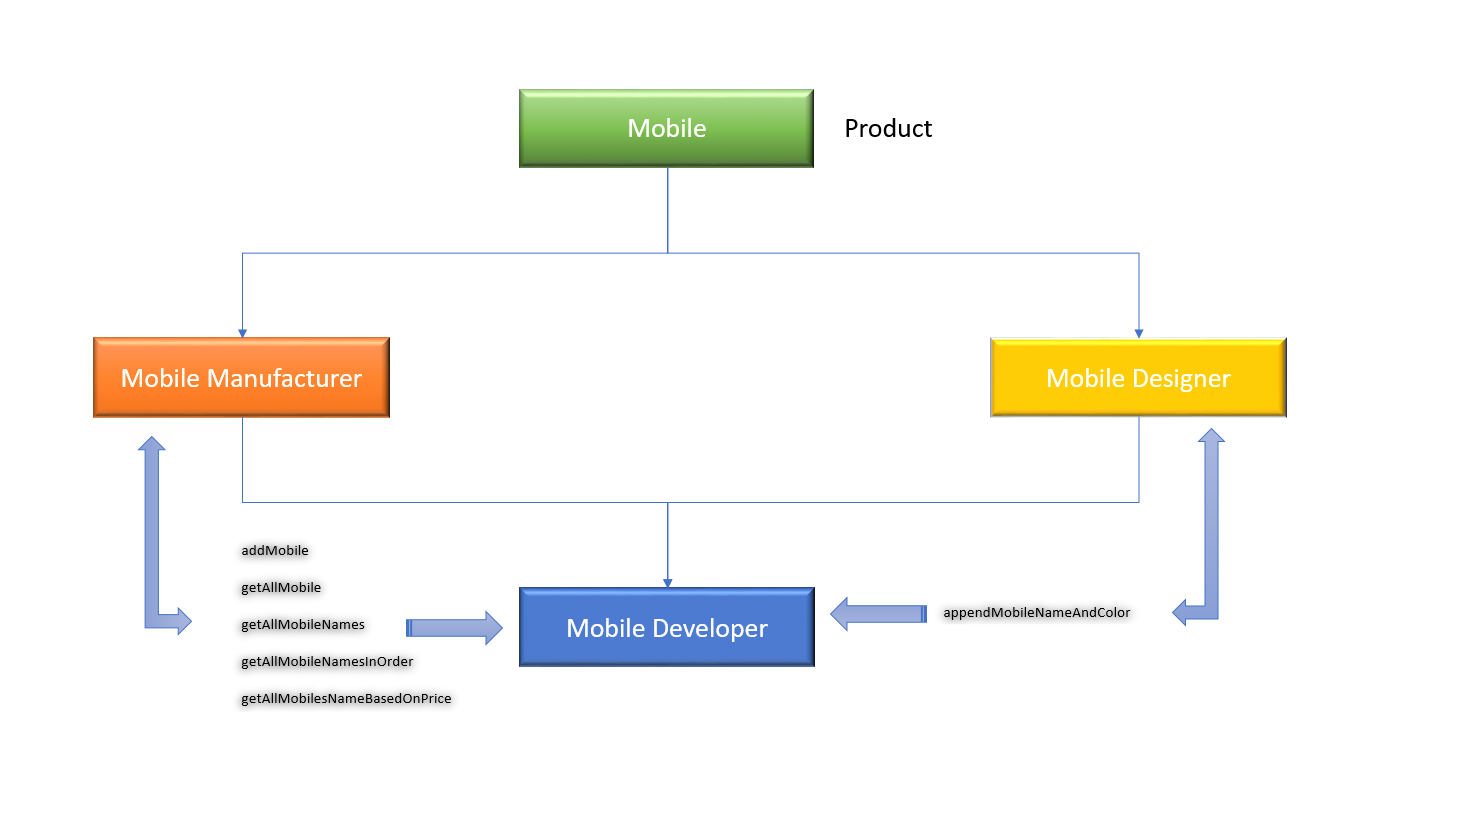
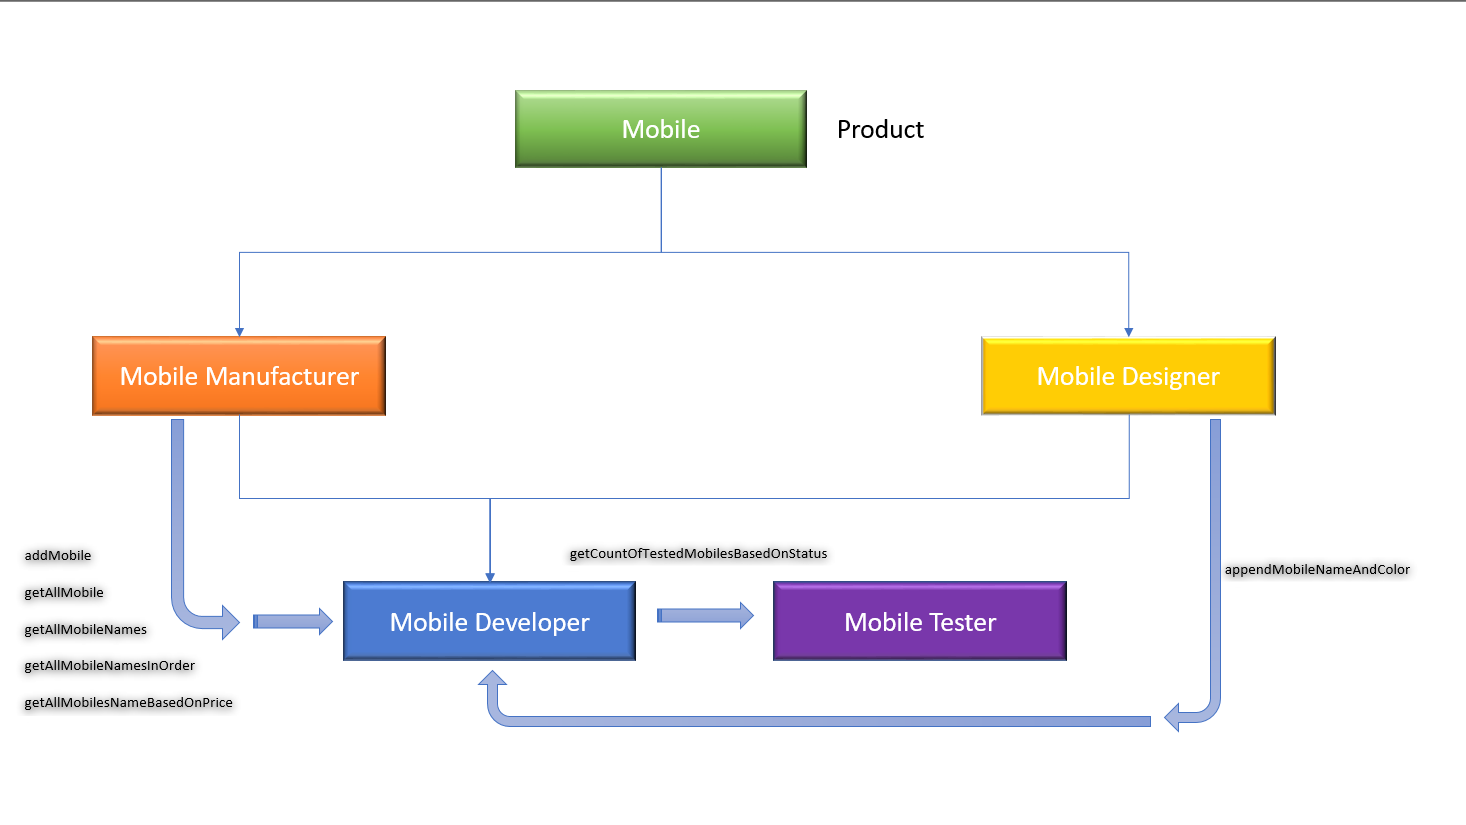
Added Method Referencing with Java8

diff --git a/src/main/java/com/yash/mobile/service/MobileDeveloper.java b/src/main/java/com/yash/mobile/service/MobileDeveloper.java
@@ -19,7 +19,20 @@ import com.yash.mobile.model.Mobile;
 public class MobileDeveloper implements MobileManufacturer {
 
 	List<Mobile> mobileList= new ArrayList<>();
-
+	
+	/**
+	 * Mobile Developer EmptyConstructor
+	 */
+	public MobileDeveloper() {
+		//Empty Constructor
+	}
+	
+	/**
+	 * Mobile Developer Constructor
+	 */
+	public MobileDeveloper(String message) {
+		System.out.println("Mobile Development is in Progress");
+	}
 
 	@Override
 	public void addMobile(Mobile mobile) {
@@ -44,18 +57,17 @@ public class MobileDeveloper implements MobileManufacturer {
 	 * 
 	 */
 	public void createMobiles(MobileDeveloper developer) {
-		developer.addMobile(new Mobile("Huawei Mate 40E", "GSM / CDMA / HSPA / CDMA2000 / LTE / 5G", "Available. Released 2021, March 18", 
-				"Li-Po 4200 mAh, non-removable", "Android 10, EMUI 11, no Google Play Services", "Kirin 990E 5G (7 nm+)", 600));
-		developer.addMobile(new Mobile("Huawei P40 4G", "GSM / HSPA / LTE", "Available. Released 2021, February 26", 
-				"Li-Po 4200 mAh, non-removable", "Android 10, EMUI 11, no Google Play Services", "Kirin 990E 5G (7 nm+)", 500));
-		developer.addMobile(new Mobile("Huawei Mate 40 RS Porsche Design", "GSM / HSPA / LTE / 5G", "Available. Released 2020, November 04", 
-				"Li-Po 4200 mAh, non-removable", "Android 10, EMUI 11, no Google Play Services", "Kirin 990E 5G (7 nm+)", 300));
-		developer.addMobile(new Mobile("Huawei Enjoy 20 5G", "GSM / CDMA / HSPA / CDMA2000 / LTE / 5G", "Available. Released 2021, March 18", 
-				"Li-Po 4200 mAh, non-removable", "Android 10, EMUI 11, no Google Play Services", "Kirin 990E 5G (7 nm+)", 800));
-		developer.addMobile(new Mobile("Huawei Enjoy Tablet 2", "GSM / CDMA / HSPA / CDMA2000 / LTE / 5G", "Available. Released 2021, March 18", 
-				"Li-Po 4200 mAh, non-removable", "Android 10, EMUI 11, no Google Play Services", "Kirin 990E 5G (7 nm+)", 700));
+		developer.addMobile(new Mobile("Huawei Mate 40E", "GSM / CDMA / HSPA / CDMA2000 / LTE / 5G", "Available", 
+				4200, "Android 10, EMUI 11, no Google Play Services", "Kirin 990E 5G (7 nm+)", 600));
+		developer.addMobile(new Mobile("Huawei P40 4G", "GSM / HSPA / LTE", "Available", 
+				5100, "Android 10, EMUI 11, no Google Play Services", "Kirin 990E 5G (7 nm+)", 500));
+		developer.addMobile(new Mobile("Huawei Mate 40 RS Porsche Design", "GSM / HSPA / LTE / 5G", "Available", 
+				5100, "Android 10, EMUI 11, no Google Play Services", "Kirin 990E 5G (7 nm+)", 300));
+		developer.addMobile(new Mobile("Huawei Enjoy 20 5G", "GSM / CDMA / HSPA / CDMA2000 / LTE / 5G", "Available", 
+				4000, "Android 10, EMUI 11, no Google Play Services", "Kirin 990E 5G (7 nm+)", 800));
+		developer.addMobile(new Mobile("Huawei Enjoy Tablet 2", "GSM / CDMA / HSPA / CDMA2000 / LTE / 5G", "Not-Available", 
+				3100, "Android 10, EMUI 11, no Google Play Services", "Kirin 990E 5G (7 nm+)", 700));
 	}
-
 
 
 
@@ -129,7 +141,36 @@ public class MobileDeveloper implements MobileManufacturer {
 	private void filterMobileNamesBasedOnPrice(MobileDeveloper developer) {
 		System.out.println("Filtering Using Lambda Expression");
 		Stream<Mobile> filterMobiles = developer.getAllMobile().stream().filter(mobile->mobile.getMobilePriceInEUR()>600);
-		filterMobiles.forEach(mobile->System.out.println("Mobile Name:"+mobile.getMobileName() +" " +"Mobile Price:"+mobile.getMobilePriceInEUR()));
+		filterMobiles.forEach(mobile->System.out.println("Mobile Name:"+mobile.getMobileName() +"|" +"Mobile Price:"+mobile.getMobilePriceInEUR()));
+	}
+
+	/**
+	 * Filtering of Mobile Names Based on Status
+	 * 
+	 * Static Method Referencing
+	 * 
+	 * @param developer
+	 */
+	public static void getAllMobileBasedOnStatus(Mobile mobile) {
+		if(mobile.getMobileStatus().equalsIgnoreCase("Available"))
+		{
+			System.out.println("Mobile Name:"+mobile.getMobileName()+"|"+"Status:"+mobile.getMobileStatus());
+		}
+	}
+
+	
+	/**
+	 * Filtering of Mobile Names Based on Battery Capacity
+	 * 
+	 * Static Method Referencing
+	 * 
+	 * @param developer
+	 */
+	public  void getAllMobileBasedOnBatteryCapacity(Mobile mobile) {
+		if(mobile.getMobileBatteryCapacity()>4100)
+		{
+			System.out.println("Mobile Name:"+mobile.getMobileName()+"|"+"Mobile Battery Capacity:"+mobile.getMobileBatteryCapacity());
+		}
 	}
 
 }

diff --git a/src/main/java/com/yash/mobile/application/MobileApplication.java b/src/main/java/com/yash/mobile/application/MobileApplication.java
@@ -1,9 +1,11 @@
 /**
- * 
+ *  @author Yashwanth
  */
 package com.yash.mobile.application;
 
+import com.yash.mobile.manufacturer.MobileTester;
 import com.yash.mobile.service.MobileDeveloper;
+import com.yash.mobile.service.MobileTesters;
 
 /**
  * @author Yashwanth
@@ -11,18 +13,44 @@ import com.yash.mobile.service.MobileDeveloper;
  */
 public class MobileApplication{
 
-
 	public static void main(String[] args) {
 		MobileDeveloper developer= new MobileDeveloper();
+		lambdaExpression(developer);
+		methodReferencing(developer);
+	}
+
+	/**
+	 * Lambda Expressions 
+	 * 
+	 * @param developer - Developer
+	 */
+	private static void lambdaExpression(MobileDeveloper developer) {
 		developer.createMobiles(developer);
 		developer.getAllMobileNames(developer);
-//		System.out.println();
-//		developer.appendingOfMobileNameAndColor(developer);
-//		System.out.println();
-//		developer.getAllMobileNamesInOrder(developer);
-//		System.out.println();
-//		developer.getAllMobilesNameBasedOnPrice(developer);
+		System.out.println();
+		developer.appendingOfMobileNameAndColor(developer);
+		System.out.println();
+		developer.getAllMobileNamesInOrder(developer);
+		System.out.println();
+		developer.getAllMobilesNameBasedOnPrice(developer);
+		System.out.println();
 	}
-	
-	
+
+	/**
+	 * Method Referencing
+	 * 
+	 * @param developer - Developer
+	 */
+	private static void methodReferencing(MobileDeveloper developer) {
+		System.out.println("Reference to Static Method");
+		developer.getAllMobile().forEach(MobileDeveloper::getAllMobileBasedOnStatus);
+		System.out.println();
+		System.out.println("Reference to Instance Method(Non-Static Method)");
+		developer.getAllMobile().forEach(developer::getAllMobileBasedOnBatteryCapacity);
+		System.out.println();
+		System.out.println("Reference to Constructor");
+		MobileTester tester=MobileTesters::new;
+		tester.getCountOfTestedMobiles(developer);
+	}
+
 }

diff --git a/src/main/java/com/yash/mobile/service/MobileTesters.java b/src/main/java/com/yash/mobile/service/MobileTesters.java
@@ -1,0 +1,24 @@
+/**
+ * 
+ */
+package com.yash.mobile.service;
+
+import java.util.stream.Stream;
+
+import com.yash.mobile.model.Mobile;
+
+/**
+ * @author Yashwanth
+ *
+ */
+public class MobileTesters {
+
+	/**
+	 * Providing the count of tested mobiles
+	 */
+	public MobileTesters(MobileDeveloper developer) {
+		Stream<Mobile> filterMobiles = developer.getAllMobile().stream().filter(mobile->mobile.getMobileStatus().equalsIgnoreCase("Available"));
+		System.out.println("Tested Mobile Count:"+filterMobiles.count());
+	}
+
+}

diff --git a/src/main/java/com/yash/mobile/manufacturer/MobileManufacturer.java b/src/main/java/com/yash/mobile/manufacturer/MobileManufacturer.java
@@ -4,7 +4,6 @@
 package com.yash.mobile.manufacturer;
 
 import java.util.List;
-
 import com.yash.mobile.model.Mobile;
 import com.yash.mobile.service.MobileDeveloper;
 
@@ -23,5 +22,6 @@ public interface MobileManufacturer {
 	public void getAllMobileNamesInOrder(MobileDeveloper developer);
 	
 	public void getAllMobilesNameBasedOnPrice(MobileDeveloper developer);
+	
 	
 }

diff --git a/src/main/java/com/yash/mobile/manufacturer/MobileTester.java b/src/main/java/com/yash/mobile/manufacturer/MobileTester.java
@@ -1,0 +1,18 @@
+/**
+ * 
+ */
+package com.yash.mobile.manufacturer;
+
+import com.yash.mobile.service.MobileDeveloper;
+import com.yash.mobile.service.MobileTesters;
+
+/**
+ * @author Yashwanth
+ *
+ */
+@FunctionalInterface
+public interface MobileTester {
+
+	public MobileTesters getCountOfTestedMobiles(MobileDeveloper developer);
+	
+}

diff --git a/src/main/java/com/yash/mobile/model/Mobile.java b/src/main/java/com/yash/mobile/model/Mobile.java
@@ -20,9 +20,9 @@ public class Mobile {
 	
 	private String mobileNetworkTechnology;
 	
-	private String mobileLaunchStatus;
+	private String mobileStatus;
 
-	private String mobileBatteryType;
+	private long mobileBatteryCapacity;
 	
 	private String mobilePlatformOS;
 	

diff --git a/src/main/java/com/yash/mobile/manufacturer/MobileDesigner.java b/src/main/java/com/yash/mobile/manufacturer/MobileDesigner.java
@@ -11,5 +11,6 @@ package com.yash.mobile.manufacturer;
 public interface MobileDesigner {
 	
 	public String appendMobileNameAndColor(String color);
+	
 
 }
